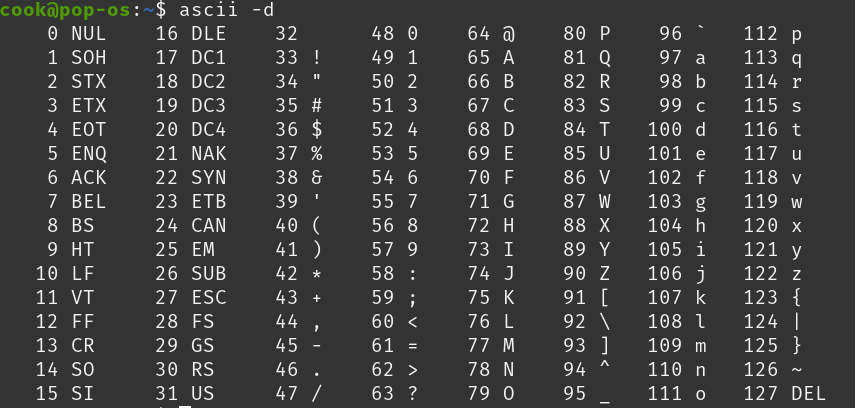
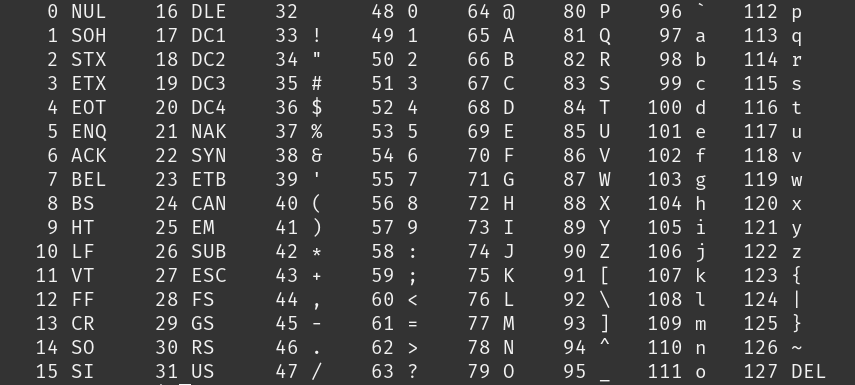
theorie flipflops en gates

diff --git a/week2/README.md b/week2/README.md
@@ -1,5 +1,7 @@
 # Week 2
 
+
+
 ## Vraagstukken
 
 ### Talstelsels
@@ -21,23 +23,23 @@ In binair worden meer dingen dan getallen, zoals tekst, CPU instructies etc. uit
 
 `Most/least significant bit`:
 Most significant bit (MSB) wil zeggen dat een bit de hoogste waarde heeft.
-De MSB staat aan de linker kant van een binair getal (2^n-1^).
+De MSB staat aan de linker kant van een binair getal (2<sup>n-1</sup>).
 Least significant bit (LSB) wil zeggen dat een bit de laagste waarde heeft.
-De LSB staat aan de linker kant van een binair getal (2^0^).
+De LSB staat aan de linker kant van een binair getal (2<sup>0</sup>).
 
 ### Reken grootheden
 
 Normale voorvoegseltabel:
 Voorvoegsel | IEC-voorvoegsel | Afkorting | IEC- afkorting| Tweemacht
 -|-|-|-|-
-Kilo    | Kibi | k of K | Ki | 2^10
-Mega    | Mebi | M | Mi | 2^20
-Giga    | Gibi | G | Gi | 2^30
-Tera    | Tebi | T | Ti | 2^40
-Peta    | Pebi | P | Pi | 2^50
-Exa     | Exbi | E | Ei | 2^60
-Zetta   | Zebi | Z | Zi | 2^70
-Yotta   | Yobi | Y | Yi | 2^80
+Kilo    | Kibi | k of K | Ki | 2<sup>10</sup>
+Mega    | Mebi | M | Mi | 2<sup>20</sup>
+Giga    | Gibi | G | Gi | 2<sup>30</sup>
+Tera    | Tebi | T | Ti | 2<sup>40</sup>
+Peta    | Pebi | P | Pi | 2<sup>50</sup>
+Exa     | Exbi | E | Ei | 2<sup>60</sup>
+Zetta   | Zebi | Z | Zi | 2<sup>70</sup>
+Yotta   | Yobi | Y | Yi | 2<sup>80</sup>
 
 ### Vertaaltabel met meerdere talstelsels
 
@@ -68,6 +70,220 @@ In 2's complement telt de MSB voor een negatief getal ipv een positief getal.
 Bijv.:
 
 `1010` in 2's comeplment is `-2` want de bit op plaats 4 heeft een waarde van `-8`.
+
+### BCD
+
+`BCD`: Binary Coded Decimal.
+
+Met BCD wordt een decimaal getal uitgedrukt in binaire waardes.
+Elk decimaal nummer wordt apart in binair omgezet.  
+Bijvoorbeeld:
+`278 -> 0010 0111 1000`
+
+### ASCII en ISO 8859
+
+`ASCII`: American Standard Code for Information Exchange.
+
+ASCII wordt gebruikt voor dataoverdracht in tekstvorm tussen computers.
+ASCII beval naast letters, cijfers, leestekens etc. ook nog functiecodes.
+Voorbeelden zijn: Backspace(positie terug), Line Feed(nieuwe regel) en Carriage return(naar begin van de regel).
+
+![ascii](../assets/ascii.png)
+
+`ISO 8859`: ISO 8859 is een overkoepelende term voor uitbreidingen van ASCII. ISO 8859 is dus een superset van ASCII. Zo kunnen bijvoorbeeld ook russische of griekse letters gecommuniceerd worden.
+
+`Unicode`: Unicode is een veel grotere superset van ASCII.
+Het doel van Unicode is om alle letters en tekens van ook maar elk alfabet/taal op te nemen.
+Ook emoji's dus.
+Unicode characters kunnen 1-4 bytes groot zijn.
+
+### Logische niveaus
+
+`Logisch niveau`: Simpelweg een binaire waarde.
+Voorbeelden om een logisch niveau aan te duiden zijn:
+High or Low, True or False, 1 of 0.
+
+In TTL schakelingen zijn er spanningsdrempels die het logische niveau bepalen:
+Niveau | Ingang | Uitgang
+-|-|-
+0 | V<sub>in</sub> $\leq$ 0,8V | V<sub>in</sub> $\leq$ 0,4V
+1 | V<sub>in</sub> $\geq$ 2,0V | V<sub>in</sub> $\geq$ 2,4V
+
+### Booleaanse algebra
+
+`OR functie`: $F = A + B$
+
+| A | B | F |
+|-|-|----|
+| 0 | 0 |   0 |
+| 0 | 1 |   1 |
+| 1 | 0 |   1 |
+| 1 | 1 |   1 |
+
+<img src="../assets/or.png" width="50%"></img>
+
+`AND functie`: $F = A \cdot B$
+
+Truth table
+|A|B|F|
+|-|-|-------|
+|0|0|   0   |
+|0|1|   0   |
+|1|0|   0   |
+|1|1|   1   |
+
+<img src="../assets/and.png" width="50%"></img>
+
+`NOT functie`: $F = \overline{A}$
+
+### NOT gate
+
+| A | F |
+|---|----|
+|  0 |   1 |
+|  1 |   0 |
+
+<img src="../assets/not.png" width="50%"></img>
+
+`NAND functie`: $F = \overline{A \cdot B}$
+
+| A | B | F |
+|-|-|-|
+| 0 | 0 | 1 |
+| 0 | 1 | 1 |
+| 1 | 0 | 1 |
+| 1 | 1 | 0 |
+
+<img src="../assets/nand.png" width="50%"></img>
+
+`NOR functie`: $F = \overline{A + B}$
+
+| A | B | F |
+|:-:|:-:|----:|
+| 0 | 0 |   1 |
+| 0 | 1 |   0 |
+| 1 | 0 |   0 |
+| 1 | 1 |   0 |
+
+<img src="../assets/nor.png" width="50%"></img>
+
+`EXOR functie`: $F = A \oplus B$
+
+| A | B | F |
+|:-:|:-:|----:|
+| 0 | 0 |   0 |
+| 0 | 1 |   1 |
+| 1 | 0 |   1 |
+| 1 | 1 |   0 |
+
+<img src="../assets/xor.png" width="50%"></img>
+
+### Tijdsdiagrammen en propogation delay
+
+`Tijdsdiagram`: In een tijdsdiagram kun je de logische niveaus van een schakeling door de tijd noteren.  
+`Positieve flank`: De overgang van logisch niveau 0 naar 1  
+`Negatieve flank`: De overgang van logisch niveau 1 naar 0  
+`Propogation delay`: Een flank is niet oneindig stijl.
+Met propogation delay wordt de vertraging tussen het ingangsignaal en het uitgangssignaal bedoelt.
+Meestal is de propogation delay voor 1 logische schakeling iets in de orde van nanoseconden.
+Hoe meer logische schakelingen er in een combinatorische schakeling, hoe groter de propogation delay, want de propogation bouwt zich op met elke schakeling.  
+
+### Combinatorische schakelingen
+
+`Combinatoriesche schakelingen`: Hebben een of meer ingangen.
+Produceren een resultaat in de vorm van logische niveaus.  
+`Comparator`: Vergelijkt 2 getallen en kan 3 verschillende waardes geven:  
+$A > B$  
+$A = B$  
+$A < B$  
+
+![comparator](../assets/comparator.png)
+
+`Multiplexer/demultiplexer`: Een multiplexer wordt ook wel een keuzeschakelaar genoemt.
+Zorgt ervoor dat een van de ingangen doorgeschakelt wordt naar de uitgang.
+Dit kan door de "select" ingangen.
+Door veschillende waardes op de select ingangen te zetten kun je bepalen welk van de ingangen doorgecshakeld wordt.
+Als je het signaal wil scheiden moet ja dat via een demultiplexer.
+Door weer select uitgangen te gebruiken kun je weer bepalen naar welke uitgang het signaal doorgeschakeld wordt.  
+![mux-demux](../assets/mux-demux.png)
+
+### Geheugenschakelingen
+
+`Geheugenschakelingen`: Kunnen bits onthouden.  
+`Register`: Een reeks bijeen horende geheugenelementen
+
+![register](../assets/register.png)
+
+`Scguifregister`: Een register, maar dan met een shift-ingang.
+Op de D<sub>0</sub> ingang kunnen bits gezet worden, die dan vervolgens met een LOAD-signaal geladen worden op het register.
+Als er een signaal op de schift-ingang staat, dan schuiven alle bits 1 plaats op naar de uitgang.
+In het schuifregister van de figuur hieronder is het 8 SHIFT-signalen om het volledige register te legen
+
+![schuifregister](../assets/schuifregister.png)
+
+`Flip-flop`: Een flip-flop is een logische schakeling die 1 bit kan onthouden.
+Het is een geheugenelement voor 1 bit.
+Er zijn veel verschillende soorten flipflops.
+
+`Active-high`: Activeerd bij een positieve flank.
+
+`Active-low`: Activeerd bij een negatieve flank.
+
+`RS-flipflop`: Reset-Set flipflop heeft inganen S en R.
+Als er een positieve flank staat op de S ingang, staat er op de C/Q
+
+![rs-schematisch](../assets/rs-flipflop-schem.png)
+![rs-symbool](../assets/rs-flipflop-symbool.png)
+![rs-symbool](../assets/rs-flipflop-tijdsdiagram.png)
+
+Een active low RS-flipflop is een normale RS-flipflop maar dan zijn de de signalen standaar hoog, en treed er verandering op bij een negatieve flank.  
+
+![rs-nand-schem](../assets/rs-nand-schematisch.png)
+![rs-nand-schem](../assets/rs-nand-symbol.png)
+
+`D-flipflop`: Een D-flipflop onthoudt het signaal om de D invoer bij een nieuwe klokpuls. Als er het signaal D 0 is tijdens een klokpuls, dan slaat de flipflop 0 op. Als D 1 is tijdens een klokpuls wordt 1 opgeslagen.
+
+![d-flipflop](../assets/d-flipflop-symbool.png)
+![d-flipflop](../assets/d-flipflop-tijdsdiagram.png)
+
+`JK-flipflop`: Een JK-flipflop heeft ook een klokingang, maar werkt iets anders dan een D-flipflop.
+Er zijn 4 situaties mogelijk.  
+$J = K = 0$ : Q veranderd niet na triggering  
+$J = 1, K = 0$ : Q wordt (of blijft) 1  
+$J = 1, K = 0$ : Q wordt (of blijft) 0  
+$J = K = 1$ : Q wordt geïnverteerd na klokpuls
+
+![jk-flipflop](../assets/jk-flipflop-symbool.png)
+
+`JK-MS-flipflop`: Een JK-Master-Slave flipflop werkt hetzelfde als een normale JK-flipflop, maar dan is zit er een delay in tussen de ingangen en uitgangen.
+Bij een positieve flank wordt het signaal opgeslagen in de master component.
+Pas bij een negatieve flank wordt het signaal opgeslagen in de slave component.
+
+![jk-ms](../assets/jk-ms-flipflop-symbool.png)
+![jk-ms-tijds](../assets/jk-ms-flipflop-tijdsdiagram.png)
+
+`Synchrone ingang`: De J, K en D van de JK- en D-flipflops zijn synchrone ingangen.
+Dit betekend dat ze afhanknelijk zijn van een klokpuls.
+
+`Asynchrone ingang`: Asynchrone ingangen zijn inganken die niet afhankelijk zijn van een klokpuls.
+Voorbeelden hiervan zijn eventuele "preset" en "clear" ingangen.
+De preset ingang zet de flipflop op 1, de clear ingang op 0, afhankelijk afhankelijk van de klok.
+
+![jk-ms-async](../assets/jk-ms-async.png)
+
+`Data-latch`: De data-latch werkt hetzelfde als een D-flipflop, maar in plaats dat deze afhankelijk is van een klokpuls, is er een enable-ingang (E).
+Als E getriggered wordt dan slaat de data-latch het signaal op de D-ingang op.
+
+![d-latch](../assets/d-latch-symbool.png)
+![d-latch-tijds](../assets/d-latch-tijdsdiagram.png)
+
+### Fan-in Fan-out
+
+`Standaardbelasting`: Een gedefinieerde eenheid die aangeeft hoeveel inputs je op de output van een circuit kan aansluiten zonder een performancevermindering.  
+`Fan-out`: Een term voor het aantal inputs dat je kan aansluiten op een output uitgedrukt in standaardbelasting.
+Met een fan-out van 10 kan je 10 inputs aanstluiten zonder een drop in performance.  
+`Fan-in`: Een term voor het aantal inputs dat een circuit aan kan uitgedrukt in standaardbelasting.
+Met een fan-out van 4 kan een gate maximaal 4 inputs aan.  
 
 ## Led-bar tellen
 
